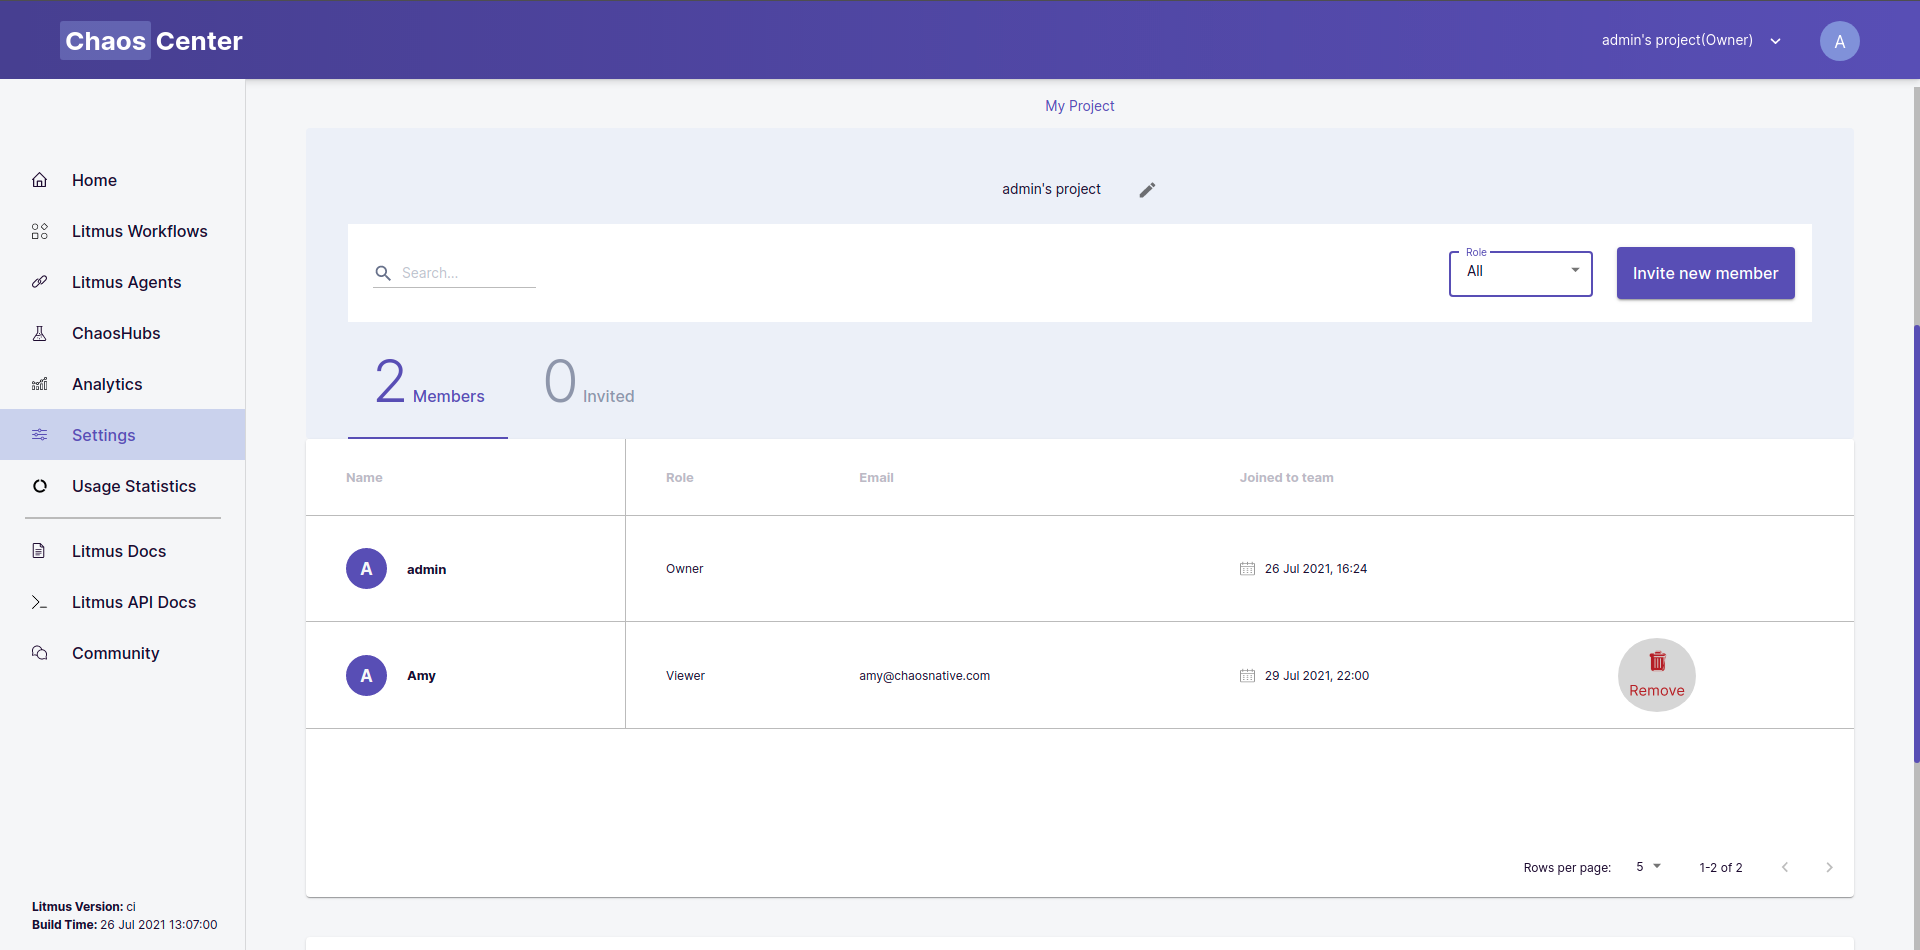
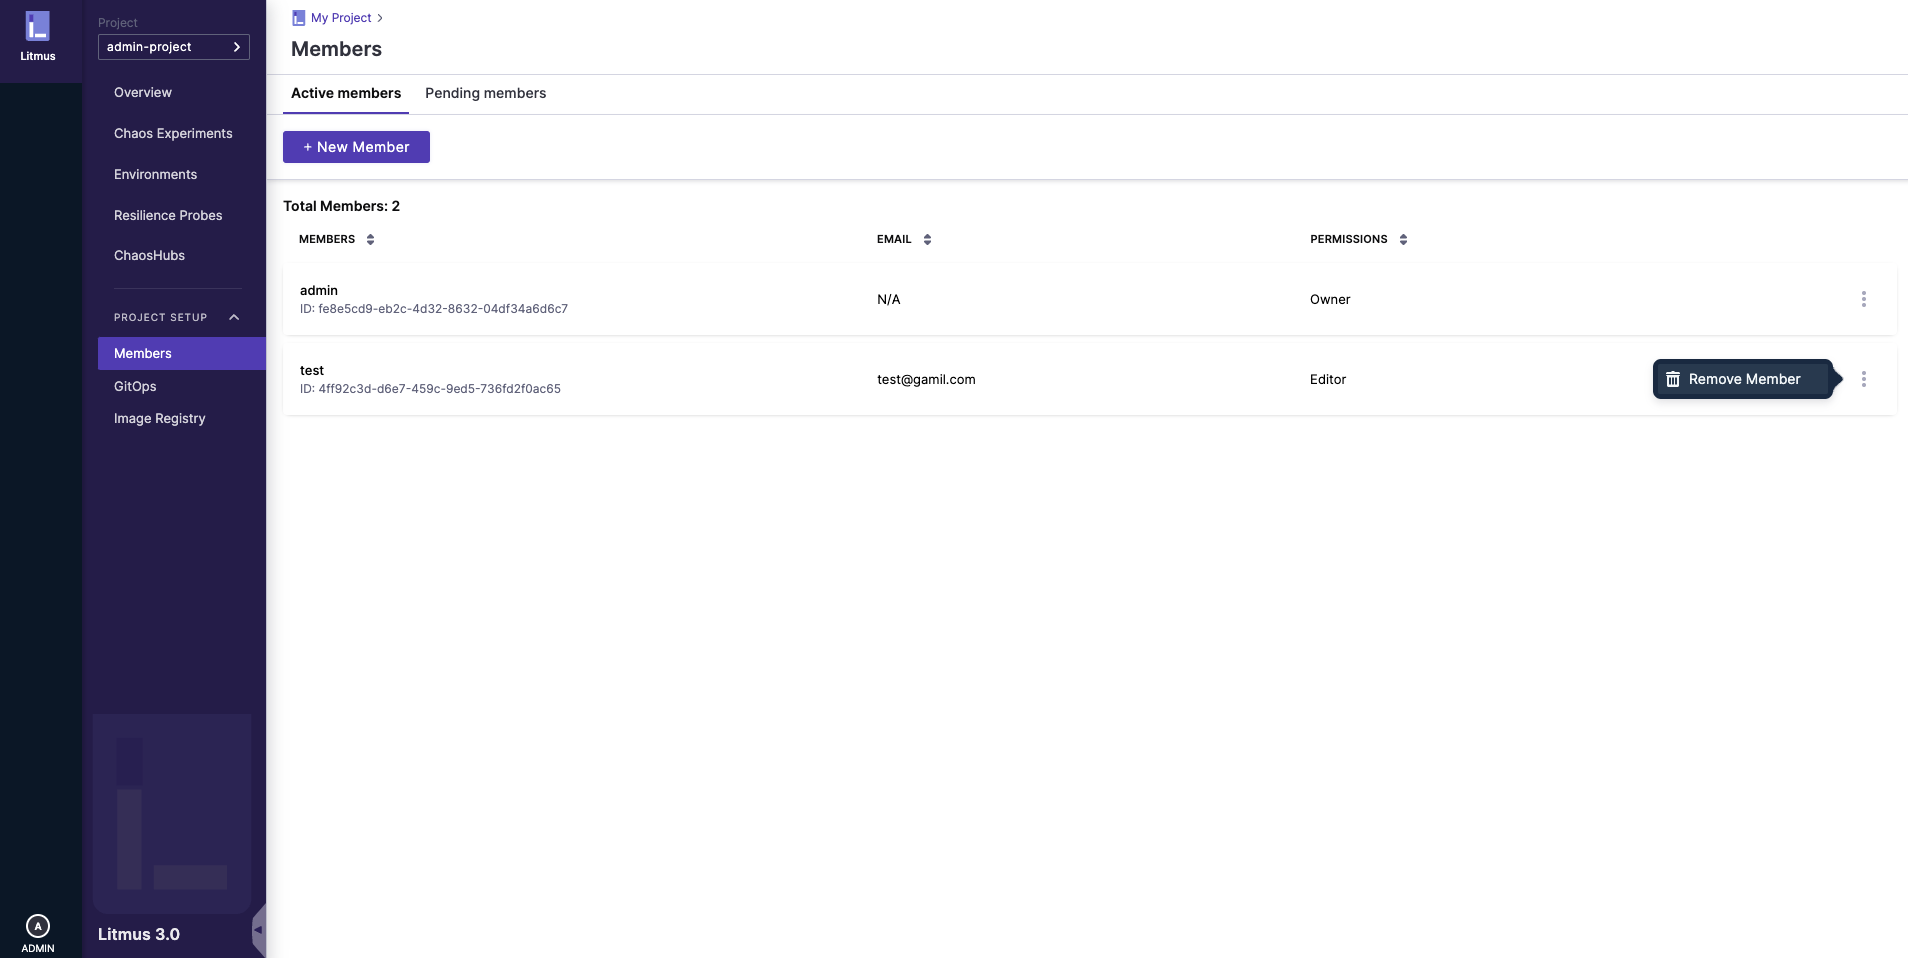
Added user guide for teaming

diff --git a/website/versioned_docs/version-3.0.0/user-guides/invite-team-member.md b/website/versioned_docs/version-3.0.0/user-guides/invite-team-member.md
@@ -6,27 +6,23 @@ sidebar_label: Invite Team Member
 
 ---
 
-> In the `/settings` route (settings on the sidebar) the `Team` tab can be used to access the teaming feature by the `owner`. We recommend learning about the concept of [teaming](../concepts/teaming.md) before proceeding with the following user guides.
+> In the `/setup` route (Project Setup > Members on the sidebar) the `Active/Pending members` tabs can be used to access the teaming feature by the `owner`. We recommend learning about the concept of [teaming](../concepts/teaming.md) before proceeding with the following user guides.
 
-With this feature, you can select as many users you want, choose their roles individually and send the invitation at once! Once it is done successfully you can see the status of the sent invitation (whether it is in a pending/accepted/declined or exited state) along with all the other necessary details in the `Invited` tab.
+With this feature, you can select as many users you want, choose their roles individually and send the invitation at once! Once it is done successfully you can see the status of the sent invitation (whether it is in a pending/accepted/declined or exited state) along with all the other necessary details in the `Pending members` tab.
 
 ## 1. Find the user you want to invite
 
-In the team tab, click the `Invite new member` button as shown below:
+In the team tab, click the `New member` button as shown below:
 
-<img src={require('../assets/user-guides/teaming/invite-team-member/step-1.png').default} width="1000" height="500" />
+<img src={require('../assets/user-guides/teaming/invite-team-member/step-1.png').default} />
 
 ## 2. Select all the members to be invited
 
-From the list of all available members, choose the ones you want to collaborate on your chaos with and decide what project level access they should have to your project (Viewer/Editor) and hit the `Send Invite` button.
+From the list of all available members, choose the ones you want to collaborate on your chaos with and decide what project level access they should have to your project (Viewer/Editor) and hit the same button.
 
-<img src={require('../assets/user-guides/teaming/invite-team-member/step-2.png').default} width="1000" height="500" />
+<img src={require('../assets/user-guides/teaming/invite-team-member/step-2.png').default} />
 
-## 3. Collaborate over the chaos!
-
-On successful invitation you will receive the confirmation dialog as shown below indicating selected members have been invited to your project.
-
-<img src={require('../assets/user-guides/teaming/invite-team-member/step-3.png').default} width="1000" height="500" />
+On successful acceptance of the invitation you will be able to collaborate over your project!
 
 ## Learn more
 

diff --git a/website/versioned_docs/version-3.0.0/user-guides/remove-team-member.md b/website/versioned_docs/version-3.0.0/user-guides/remove-team-member.md
@@ -12,12 +12,12 @@ If you are the project owner, you have the ability to remove any members from yo
 
 ### 1. Identify the member to remove
 
-In the `Team` tab in the settings page, scroll down to the `My project` table, here you will be able to see all the members who have their invitation status as `accepted` for your project collaboration invite. Here, identify the user to remove and click on the red `Remove` bin icon as shown.
+In the `Active members` tab in the Members page, you will be able to see all the members who have their invitation status as `accepted` for your project collaboration invite. Here, identify the user to remove and click on the `Options` icon as shown and select the `Remove Member` option.
 
-<img src={require('../assets/user-guides/teaming/remove-team-member/step-1.png').default} width="1000" height="500" />
+<img src={require('../assets/user-guides/teaming/remove-team-member/step-1.png').default} />
 
 ### 2. Confirmation for removal
 
-On hitting the `Remove` icon, you will be prompted to confirm the removal of the member, hit `Yes` to confirm and remove the member from your project.
+On hitting the `Remove Member` option, you will be prompted to confirm the removal of the member, hit `Confirm` to confirm and remove the member from your project.
 
-<img src={require('../assets/user-guides/teaming/remove-team-member/step-2.png').default} width="1000" height="500" />
+<img src={require('../assets/user-guides/teaming/remove-team-member/step-2.png').default} />

diff --git a/website/versioned_docs/version-3.0.0/user-guides/accept-invite.md b/website/versioned_docs/version-3.0.0/user-guides/accept-invite.md
@@ -6,10 +6,10 @@ sidebar_label: Accept invite
 
 ---
 
-Once the invitation is received, you can take a look at details including the sender's name, role, and project name, then decide whether to accept or decline the invitation.
+Once the invitation is received, you can take a look at invitation project name, and decide whether to accept or decline the invitation on the settings page.
 
-<img src={require('../assets/user-guides/teaming/accept-invite/step-1.png').default} width="1000" height="500" />
+<img src={require('../assets/user-guides/teaming/accept-invite/step-1.png').default} />
 
-Once accepted, you can switch to the project using the header or the `View Project` option as shown below:
+Once accepted, you can switch to the project using the side nav as shown below:
 
-<img src={require('../assets/user-guides/teaming/accept-invite/step-2.png').default} width="1000" height="500" />
+<img src={require('../assets/user-guides/teaming/accept-invite/step-2.png').default} />

diff --git a/website/versioned_docs/version-3.0.0/user-guides/edit-invite.md b/website/versioned_docs/version-3.0.0/user-guides/edit-invite.md
@@ -8,9 +8,9 @@ sidebar_label: Edit/Cancel invite
 
 If you had a change of mind and you wanted to change the role of an invitation that has been already sent, we got you!
 
-Just go to the invited tab, change the role, and hit the `Resend` button. You can also cancel the invitation by just clicking on the `bin` icon.
+Just go to the invited tab, change the role, and hit the `Resend` button. You can also cancel the invitation by just clicking on the `Remove` button.
 
-<img src={require('../assets/user-guides/teaming/edit-invite/step-1.png').default} width="1000" height="500" />
+<img src={require('../assets/user-guides/teaming/edit-invite/step-1.png').default} />
 
 ## Learn more
 
